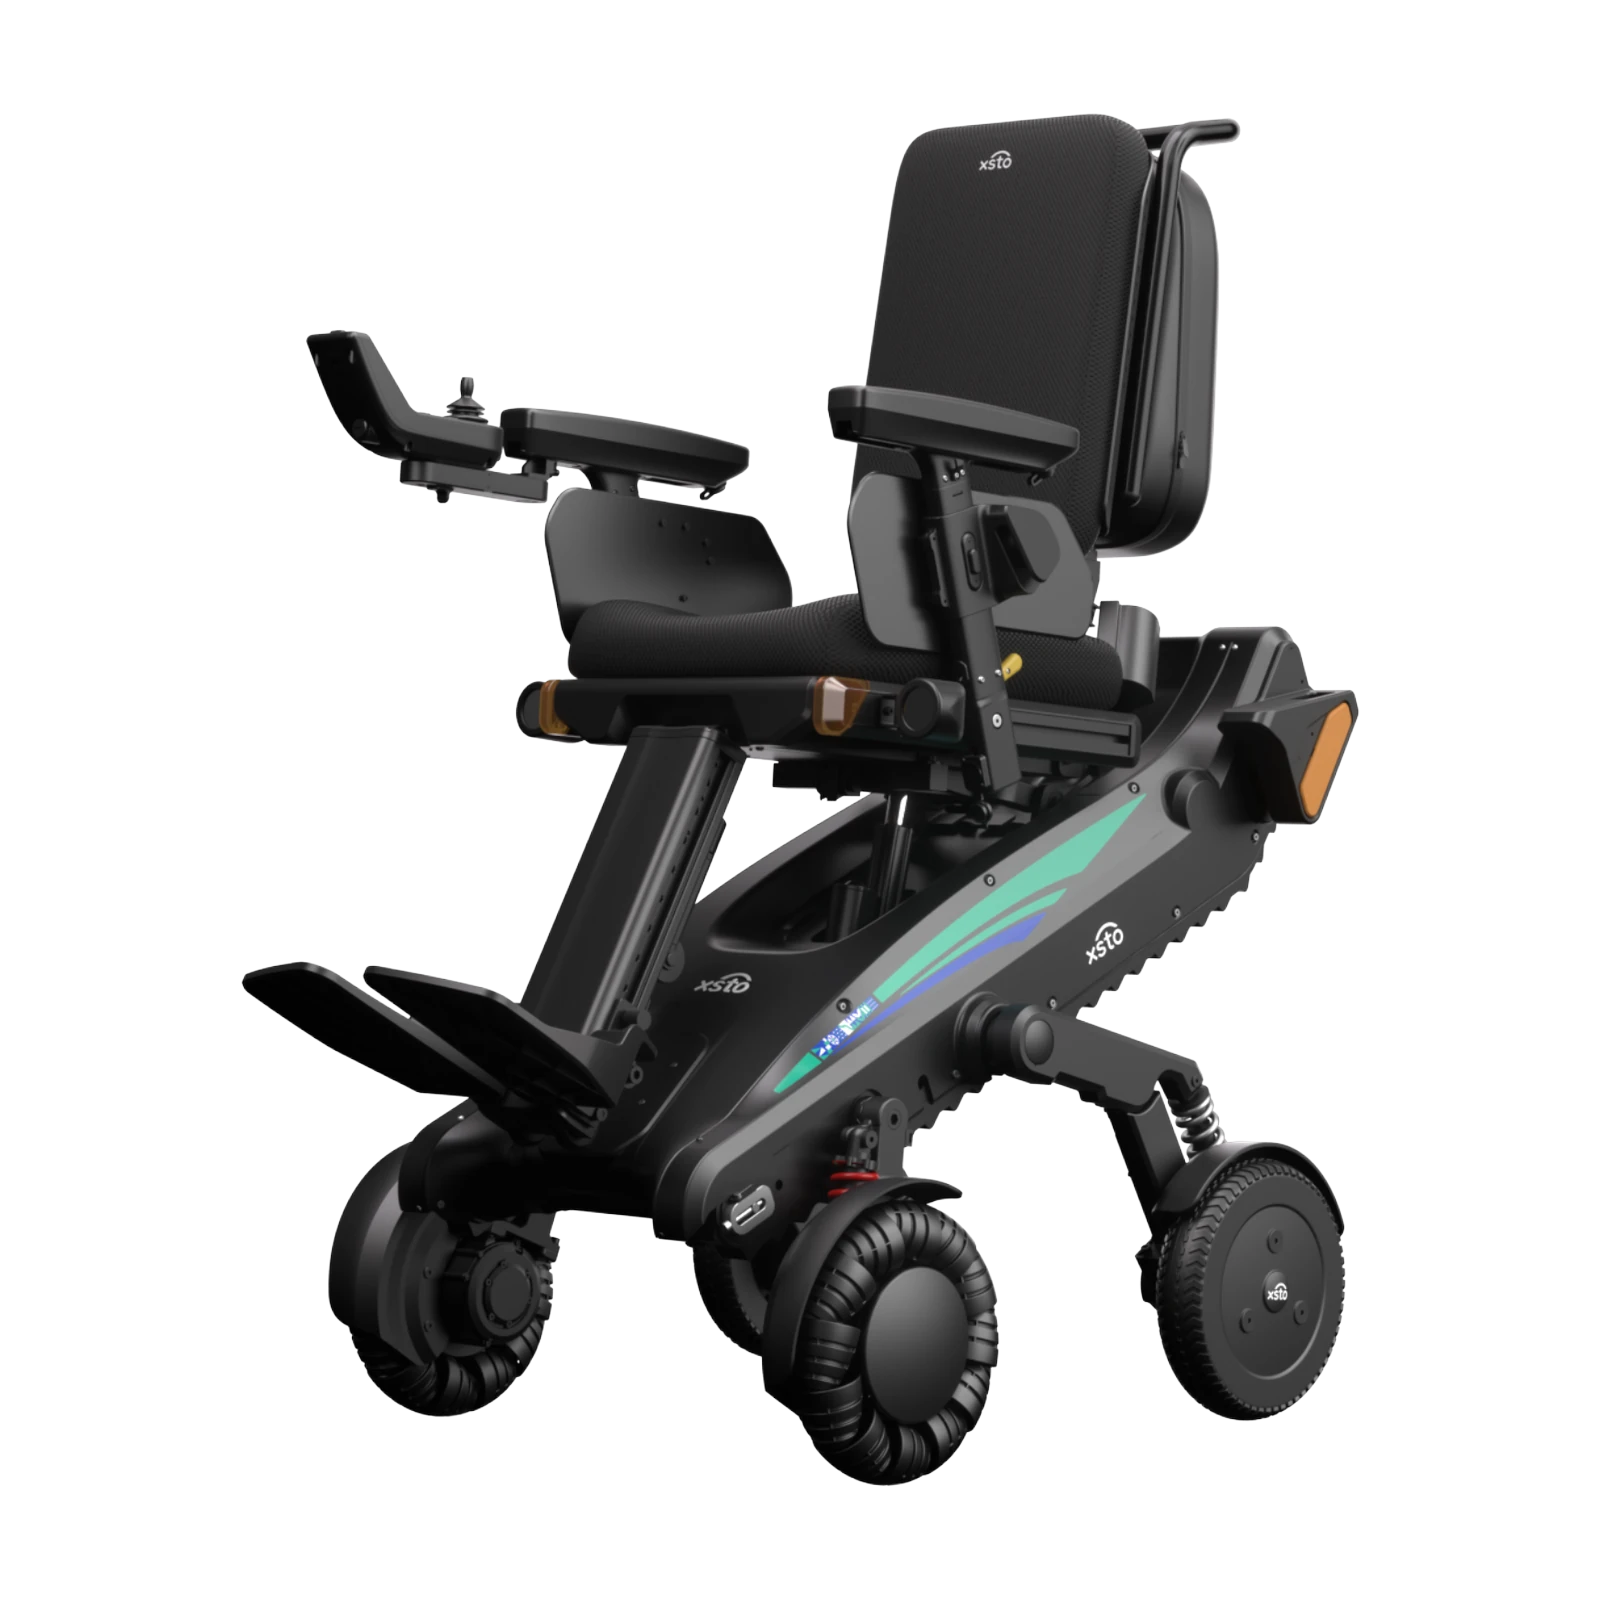
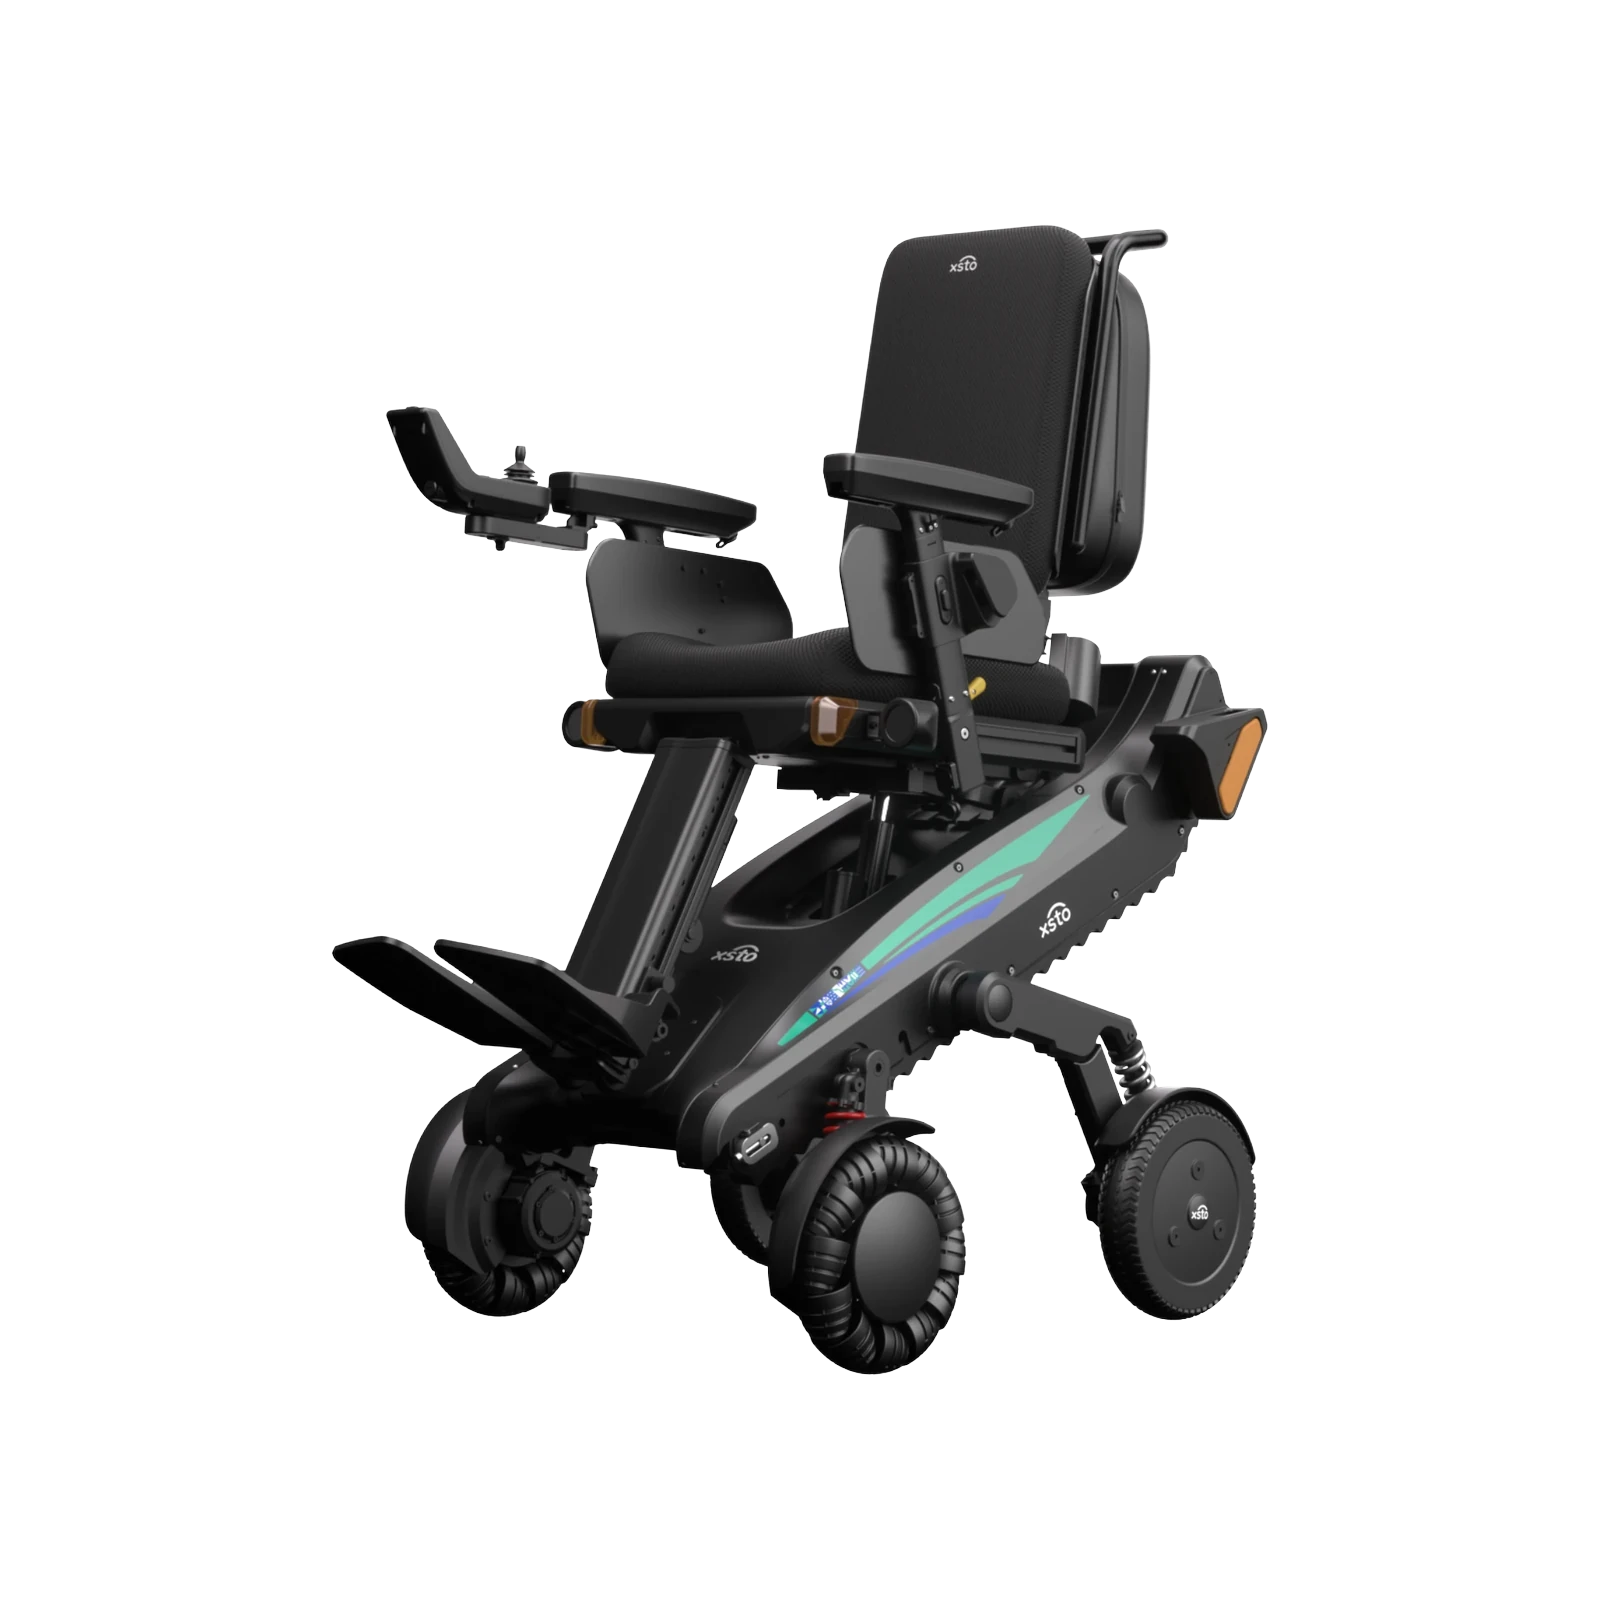
Give the X12 listing photo more padding in product cards
Rebuild the square cut-out with wider margins and even card insets so
the headrest and tracks stay clear of the frame.

Changed region(s): [[0.1562, 0.0625, 0.8438, 0.9375]]

diff --git a/app/components/product/RelatedProducts.tsx b/app/components/product/RelatedProducts.tsx
@@ -46,11 +46,11 @@ export function RelatedProducts({
                 prefetch="intent"
                 to={`/products/${product.handle}`}
               >
-                <div className="mr-product-related-image flex aspect-square items-center justify-center overflow-hidden bg-[#f5f7fb] p-6">
+                <div className="mr-product-related-image relative aspect-square overflow-hidden bg-[#f5f7fb]">
                   {image?.url ? (
                     <img
                       alt={image.altText || name}
-                      className="max-h-full max-w-full object-contain transition-transform group-hover:scale-[1.03]"
+                      className="absolute inset-0 size-full object-contain p-7 transition-transform group-hover:scale-[1.03] sm:p-8"
                       decoding="async"
                       height={image.height ?? 800}
                       loading="lazy"

diff --git a/app/styles/home-redesign.css b/app/styles/home-redesign.css
@@ -284,7 +284,8 @@
   width: 100%;
   height: 100%;
   object-fit: contain;
-  padding: 27px 15px 10px;
+  /* Even inset so square listing shots (especially X12) keep headrest and tracks. */
+  padding: 18px;
   mix-blend-mode: multiply;
 }
 .mr-card-badge {
@@ -693,7 +694,7 @@
     aspect-ratio: 1;
   }
   .mr-card-visual img {
-    padding: 12px 8px 6px;
+    padding: 12px;
   }
   .mr-card-badge {
     display: none;
